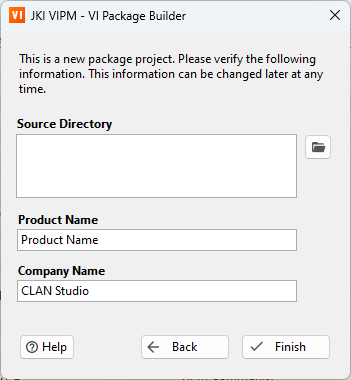
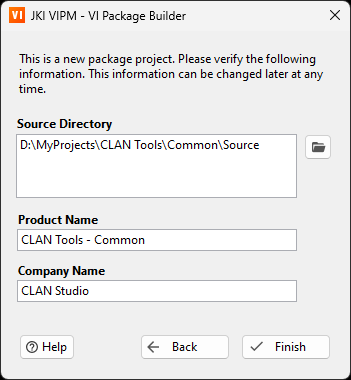
#VIPM工具包打包教程 更新

diff --git a/VIPM工具包打包教程/LabVIEW VIPM 工具包打包教程.md b/VIPM工具包打包教程/LabVIEW VIPM 工具包打包教程.md
@@ -2,10 +2,76 @@
 
 ## 1.  VIPM简介
 
-VI Package Maager（VIPM）是一个JKI组织开发的，对LabVIEW工具包进行搜索、创建、共享的包管理工具。对应LabVIEW开发工程师来说，到VIPM里搜索和安装工具包是一个必备技能，一些非常常用的工具包，如OpenG Library等都是通过VIPM进行发布和管理的。
+VI Package Manager（VIPM）是一个JKI组织开发的，对LabVIEW工具包进行搜索、创建、共享的包管理工具。对应LabVIEW开发工程师来说，到VIPM里搜索和安装工具包是一个必备技能，一些非常常用的工具包，如OpenG Library等都是通过VIPM进行发布和管理的。
 
 本教程主要讲解如何利用VIPM来打包自己写的工具，以方便分享，或安装到其他电脑中进行使用。
 
-## 2.  VIPM主界面
+![图1](Pic/000.png "图1-VIPM主界面")
 
-![](Pic/001.png)
+## 2. 打开 Open VI Package Builder
+
+通过左上角 ![](Pic/001.png) 图标，可以打开 `Open VI Package Builder` 窗口，如下图：
+
+![图2](Pic/002.png "图2-VI Package Builder界面")
+
+该界面可通过 `Create New` 按钮创建新的打包项目，也可通过 `Open Existing` 按钮打开已保存的打包项目文件（*.vipb）。同时也支持直接双击下方列表的近期项目来直接打开打包项目文件。
+
+下面，本教程将以个人项目 `CLAN Tools - Common` 为例子，一步一步进行工具包打包操作。
+
+## 3. CLAN Tools - Common项目打包
+
+### 3.1. 项目结构
+
+Common项目包含用于前面板的控件和用于后面板的函数模块，整个项目树结构如下：
+
+![图3](Pic/003.png "图3-Common项目树结构")
+
+### 3.2. 创建VI Package Builder项目文件
+
+点击 `VI Package Builder` 中的 `Create New` 按钮后，如下图，填入对应的项目信息，并点击 `Finish` 按钮。
+
+![图4](Pic/004.png "图4-新建打包项目")
+
+- `Source Directory` - 工具包源路径
+
+- `Product Name` - 工具包名称
+
+- `Company Name` - 公司/组织名称
+
+### 3.3. 配置VI Package Builder项目文件
+
+项目文件配置主界面：
+
+![图5](Pic/005.png "图5-项目文件主界面")
+
+基本配置：
+
+- `Build Information` - 构建信息
+
+- `Display Informtion` - 显示信息
+
+- `Description` - 项目简介
+
+- `Palettes` - 选板配置
+
+- `Destinations` - 目标路径配置
+
+- `Source File Settings` - 源文件配置
+
+高级配置：
+
+- `Package Dependencies` - 工具包依赖
+
+- `Licensing & Activation` - 授权和激活
+
+- `Install Requirements` - 安装环境要求
+
+- `Incmpatible Packages` - 不兼容工具包配置
+
+- `Custom Actions` - 安装/卸载的前/后操作
+
+- `Pre/Post Build Actions` - 构建前/后操作
+
+- `Package Filname` - 工具包文件名
+
+#### 3.3.1. `Build Information` - 构建信息
